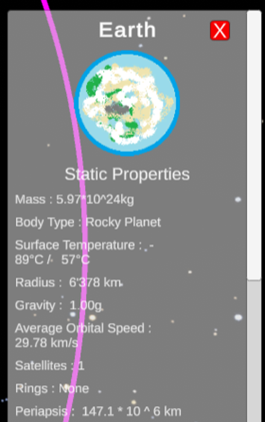
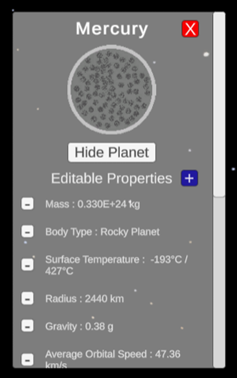
Update UI Components for clarity and formatting improvements

diff --git a/src/app/tutorial/components/CoreComponents/planetinformation.tsx b/src/app/tutorial/components/CoreComponents/planetinformation.tsx
@@ -10,17 +10,14 @@ const CGPlanetInformation: React.FC = () => {
         Explorer Mode:
       </p>
 
-      <img src="/planetinformation1.png" alt="Next.js Logo" className="mb-4" />
-      <img src="/planetinformation2.png" alt="Next.js Logo" className="mb-4" />
+      <img src="/Planetinormation12.png" alt="Next.js Logo" className="mb-4" />
 
       <h3 className="text-lg font-semibold mt-4 mb-2">Properties Displayed:</h3>
 
       <p className="mb-2">
-        The application currently has twelve “Static Properties” (properties that would not be
-        changing in a real-life-like case) and two “Variable Properties” (properties that would
-        change depending on the time of measurement).
+      The explorer mode categorizes the properties into two main types:
       </p>
-      <p className="mb-2 mt-4">The Static Properties are:</p>
+      <p className="mb-2 mt-4">Editable Properties (properties that don’t have an impact on the simulation, aka for information only):</p>
       <ul className="list-disc pl-6">
         <li>Mass: The mass of the body in kg </li>
         <li>
@@ -53,7 +50,7 @@ const CGPlanetInformation: React.FC = () => {
           terrestrial days{' '}
         </li>
       </ul>
-      <p className="mb-2 mt-4">The two “Variable Properties” are:</p>
+      <p className="mb-2 mt-4"> Live Stats (properties that change over time)</p>
       <ul className="list-disc pl-6">
         <li>Current Speed: The current velocity of the object in the simulation. </li>
         <li>
@@ -63,24 +60,42 @@ const CGPlanetInformation: React.FC = () => {
 
       <p className="mb-2 mt-4">
         The Info Tab also includes a description field, which contains interesting facts or
-        curiosities about the object.
-      </p>
-
-      <h3 className="text-lg font-semibold mt-4 mb-2">Interactive Features in Sandbox Mode:</h3>
-
-      <p className="mb-2">
-        In the Sandbox Mode the info tab is slightly different: the user is allowed to modify the
-        “Static Properties”, as well as the planets description. It can also add new “Static
-        Properties” or remove old ones.
+        curiosities about the object. The interactive features in the Explorer mode are the
+        following:
       </p>
       <ul className="list-disc pl-6">
-        <li>Add New Property: Press the blue <span className=" bg-white text-slate-900 p-0.5 px-1.5 rounded-md shadow-lg font-bold ">+ button</span>  to introduce a new static property.</li>
-        <li>Remove Property: Click the <span className=" bg-white text-slate-900 p-0.5 px-1.5 rounded-md shadow-lg font-bold ">- button</span>  next to a property to remove it.</li>
+        <li>
+          • Add New Property: Press the blue{' '}
+          <span className=" bg-white text-slate-900 p-0.5 px-1.5 rounded-md shadow-lg font-bold ">
+            + button
+          </span>{' '}
+          to introduce a new editable property.{' '}
+        </li>
+        <li>
+          Remove Property: Click the{' '}
+          <span className=" bg-white text-slate-900 p-0.5 px-1.5 rounded-md shadow-lg font-bold ">
+            - button
+          </span>{' '}
+          next to a property to remove it.{' '}
+        </li>
         <li>
           Edit Property or Description: Double-click on any text to edit the property value or the
           description itself.
         </li>
       </ul>
+      <p className="mb-2 mt-4">
+        The eventual changes in properties and descriptions are partially saved: the values are
+        reset to default as soon as the user goes back to the main menu or closes the program. Until
+        then, all changes will be saved in the respective info tabs, even if the user switches
+        between planets.
+      </p>
+
+      <h3 className="text-lg font-semibold mt-4 mb-2">Interactive Features in Sandbox Mode:</h3>
+
+      <p className="mb-2">
+        In the Sandbox Mode the info tab is slightly different: there is a new category of
+        properties, the Variable ones, which, when changed, will impact the simulation.
+      </p>
       <p className="mb-2">
         The following screenshot depicts an example of Info Tab in the Sandbox mode with the
         relevant buttons.{' '}
@@ -91,8 +106,11 @@ const CGPlanetInformation: React.FC = () => {
       <div className="mb-4">
         <h3 className="text-lg font-semibold mb-2">Closing / Switching the Info Tab </h3>
         <p className="mb-2">
-          Close the Info Tab: You can click the red <span className=" bg-white text-slate-900 p-0.5 px-1.5 rounded-md shadow-lg font-bold ">X button</span>  in the top right corner or click on
-          the same planet in the planet list again.
+          Close the Info Tab: You can click the red{' '}
+          <span className=" bg-white text-slate-900 p-0.5 px-1.5 rounded-md shadow-lg font-bold ">
+            X button
+          </span>{' '}
+          in the top right corner or click on the same planet in the planet list again.
         </p>
         <p className="mb-2">
           Switch between Tabs: Clicking on a different planet in the list will close the current tab

diff --git a/src/app/tutorial/components/CoreComponents/uicomponents.tsx b/src/app/tutorial/components/CoreComponents/uicomponents.tsx
@@ -5,35 +5,27 @@ const CGUIComponents: React.FC = () => {
 
       <div className=" rounded-lg p-6  mb-6">
         <p className="mb-4">
-          The following image depicts the starting state of the simulation. The program has four
-          interactable elements:{' '}
-          <span className=" bg-white text-slate-900 p-0.5 px-1.5 rounded-md shadow-lg font-bold ">
-            Speed Slider
-          </span>{' '}
-          ,{' '}
-          <span className=" bg-white text-slate-900 p-0.5 px-1.5 rounded-md shadow-lg font-bold ">
-            Play/Pause button
-          </span>{' '}
-          ,{' '}
-          <span className=" bg-white text-slate-900 p-0.5 px-1.5 rounded-md shadow-lg font-bold ">
-            Escape button
-          </span>{' '}
-          , as well as a third button on the lower part of the screen with an{' '}
-          <span className=" bg-white text-slate-900 p-0.5 px-1.5 rounded-md shadow-lg font-bold ">
-            Arrow
-          </span>{' '}
-          pointing upwards.{' '}
+          The following image depicts the starting state of the explorer mode. The UI has seven
+          interactable elements:
         </p>
+        <ul className="list-disc pl-6 mb-6">
+          <li className="mb-2">Real time toggle</li>
+          <li className="mb-2">Sumulation speed slider</li>
+          <li className="mb-2">Play / Pause button</li>
+          <li className="mb-2">Backwards button ( {"<<"} )</li>
+          <li className="mb-2">Forward button ( {">>"} )</li>
+          <li className="mb-2">Escape button</li>
+          <li className="mb-2">Planet list button, as an up-pointing arrow</li>
+        </ul>
+
         <img src="/bild1.png" alt="Next.js Logo" className="mb-4" />
         <ul className="list-disc pl-6 mb-6">
           <li className="mb-2">
-            Simulation speed slider: You can use the{' '}
-            <span className=" bg-white text-slate-900 p-0.5 px-1.5 rounded-md shadow-lg font-bold ">
-              Speed Slider
-            </span>{' '}
-            to increase the time steps, which allows you to see planetary movements that would
-            normally take years in just seconds. – More details about the simulation speed will
-            follow in the “Time Controls” chapter –
+            Real time toggle: Activate the real time mode by pressing this <span className=" bg-white text-slate-900 p-0.5 px-1.5 rounded-md shadow-lg font-bold ">
+              Checkmark
+            </span>{' '}. This will run
+            the simulation in real time, which means, it will take earth 24 hours of running your
+            computer with the application opened to do one full rotation around itself
           </li>
           <li className="mb-2">
             Play / Pause button: Clicking the{' '}
@@ -44,10 +36,16 @@ const CGUIComponents: React.FC = () => {
             planetary positions closely.
           </li>
           <li className="mb-2">
-            Forward button: The celestial body will move normally, and you can explore the future.
+            Forward button: Clicking the{' '}
+            <span className=" bg-white text-slate-900 p-0.5 px-1.5 rounded-md shadow-lg font-bold ">
+              Forward button
+            </span>{' '}  will move the simulation normally, allowing you to explore the future.
           </li>
           <li className="mb-2">
-            Backward button: The celestial body will move in reverse, and you can explore the past.
+            Backward button: Clicking the{' '}
+            <span className=" bg-white text-slate-900 p-0.5 px-1.5 rounded-md shadow-lg font-bold ">
+              Backward button
+            </span>{' '} will move the simulation back in time, essentially letting you rewind the solar system.
           </li>
           <li className="mb-2">
             Arrow button: Click the{' '}
@@ -62,8 +60,7 @@ const CGUIComponents: React.FC = () => {
             <span className=" bg-white text-slate-900 p-0.5 px-1.5 rounded-md shadow-lg font-bold ">
               Escape button
             </span>{' '}
-            stops the simulation and takes you back to the main menu, where you can quit the program
-            or start a new simulation.
+            stops the simulation and takes you back to the main menu, where you can quit the program or start a new simulation mode
           </li>
         </ul>
 

diff --git a/src/app/tutorial/components/CoreComponents/timecontrol.tsx b/src/app/tutorial/components/CoreComponents/timecontrol.tsx
@@ -8,16 +8,46 @@ const CGTimeControl: React.FC = () => {
         <span className=" bg-white text-slate-900 p-0.5 px-1.5 rounded-md shadow-lg font-bold ">
           Play/Pause button
         </span>{' '}
-        that allows you to stop or start the simulation. Positioned at the top left, there is a
-        slider that enables you to control the speed of the simulation. The slider scale ranges from
-        1 to 20, with the selected number displayed above it. In Explorer Mode, below the slider,
-        you can also see the current date of the simulation. Each increment on the{' '}
+        that allows you to stop or start the simulation. Positioned at the top left, there is a{' '}
         <span className=" bg-white text-slate-900 p-0.5 px-1.5 rounded-md shadow-lg font-bold ">
-          Slider
+          Simulationspeed Slider
         </span>{' '}
-        corresponds to one day per second in terms of planet movement speed.
+        that enables you to control the speed of the simulation.
       </p>
+      <p className="mb-4">
+        The selected speed will be displayed next to it. In Explorer Mode, top left, you can also
+        see the current date of the simulation. You can click on the date and a window will pop up.
+        There you can choose a date and time. You can click on {' '}
+        <span className=" bg-white text-slate-900 p-0.5 px-1.5 rounded-md shadow-lg font-bold ">
+          Submit
+        </span>{' '}
+        and the simulation will move to this time. Additionally, you have two buttons {' '}
+        <span className=" bg-white text-slate-900 p-0.5 px-1.5 rounded-md shadow-lg font-bold ">
+          {'<<'}
+        </span>{' '}
+        and{' '}
+        <span className=" bg-white text-slate-900 p-0.5 px-1.5 rounded-md shadow-lg font-bold ">
+          {'>>'}
+        </span>{' '}
+      </p>
+      <p className="mb-4">
+        <span className=" bg-white text-slate-900 p-0.5 px-1.5 rounded-md shadow-lg font-bold ">
+          {'<<'}
+        </span>{' '}
+        will go back to the time and you will take a journey to the past while{' '}
+        <span className=" bg-white text-slate-900 p-0.5 px-1.5 rounded-md shadow-lg font-bold ">
+          {'>>'}
+        </span>{' '}
+        will show you the future! Finally, you have a {' '}
+        <span className=" bg-white text-slate-900 p-0.5 px-1.5 rounded-md shadow-lg font-bold ">
+           Real Time Checkmark
+        </span>{' '}
+        Here the simulation will ignore the simulation slider and the speed will be adjusted to the
+        real lifetime.
+      </p>
+
       <img src="/timecontrol1.png" alt="Next.js Logo" className="mb-4" />
+      <img src="/timecontrol2.png" alt="Next.js Logo" className="mb-4" />
     </div>
   );
 };

diff --git a/src/app/tutorial/components/CoreComponents/camerapresets.tsx b/src/app/tutorial/components/CoreComponents/camerapresets.tsx
@@ -9,28 +9,39 @@ const CGCameraPresets: React.FC = () => {
       </p>
 
       <div className="mb-4">
-        <h3 className="text-lg font-semibold mb-2">Birds Eye View (Numpad 1)</h3>
+        <h3 className="text-lg font-semibold mb-2">Birds Eye View </h3>
         <p className="mb-2">
           Press the{' '}
           <span className=" bg-white text-slate-900 p-0.5 px-1.5 rounded-md shadow-lg font-bold ">
             1 key
           </span>{' '}
-          on the numpad to switch to a birds eye view. This perspective provides a top-down view
+          to switch to a birds eye view. This perspective provides a top-down view
           centered around the current pivot point, ideal for getting a comprehensive overview of the
           solar system.{' '}
         </p>
       </div>
 
       <div className="mb-4">
-        <h3 className="text-lg font-semibold mb-2">Side View (Numpad 3)</h3>
+        <h3 className="text-lg font-semibold mb-2">Side View </h3>
         <p className="mb-2">
           {' '}
           Press the{' '}
           <span className=" bg-white text-slate-900 p-0.5 px-1.5 rounded-md shadow-lg font-bold ">
             3 key
           </span>{' '}
-          on the numpad to switch to a side view. This perspective offers a lateral view of the
+          to switch to a side view. This perspective offers a lateral view of the
           current pivot point, useful for examining the spatial relationships between planets.{' '}
+        </p>
+      </div>
+      <div className="mb-4">
+        <h3 className="text-lg font-semibold mb-2">•	Diagonal View</h3>
+        <p className="mb-2">
+          {' '}
+          Press the{' '}
+          <span className=" bg-white text-slate-900 p-0.5 px-1.5 rounded-md shadow-lg font-bold ">
+            7 key
+          </span>{' '}
+          to switch to a diagonal view. This perspective provides a mix of a side view, looking slightly down at the sun.
         </p>
       </div>
     </div>

diff --git a/src/app/tutorial/components/CoreComponents/addnewplanet.tsx b/src/app/tutorial/components/CoreComponents/addnewplanet.tsx
@@ -1,4 +1,4 @@
-const CGPlanetInformation: React.FC = () => {
+const CGAddNewPlanets: React.FC = () => {
   return (
     <div className="max-w-xl mx-auto my-8 p-4">
       <h2 className="text-xl font-semibold mb-2">Adding New Celestial Bodies</h2>
@@ -29,8 +29,23 @@ const CGPlanetInformation: React.FC = () => {
         </li>
         <li>Color: A new window opens where you can choose the color of your celestial body. </li>
       </ul>
+      <img src="/addnewbody.png" alt="addnewplanet" />
+      <p className="mb-4">
+        In All fields must be filled out with valid values. If any fields are invalid, the
+        corresponding field will be highlighted in red.{' '}
+      </p>
+      <p className="mb-4">
+      Once all fields are correctly filled out, you can click the{' '}
+        <span className=" bg-white text-slate-900 p-0.5 px-1.5 rounded-md shadow-lg font-bold ">
+        Create button 
+        </span>{' '}
+        You will see it in the simulation and observe its gravitational impact on the other celestial bodies. There will also be a new entry for your celestial body in the list below, along with an info tab that appears when you click the entry. Visit the (Planet Information “link zum Abschnitt”) section to learn how to use the info tab.
+      </p>
+      <p className="mb-4">
+      Keep in mind: Depending on the status of the other celestial bodies in the simulation, various occurrences may happen. For example, if the new celestial body has a large enough mass, it might pull all other celestial bodies towards it. Alternatively, if the new celestial body has a high initial velocity, it might not be significantly affected by the gravitational forces of the other celestial bodies. It all depends on your inputs.
+      </p>
     </div>
   );
 };
 
-export default CGPlanetInformation;
+export default CGAddNewPlanets;

diff --git a/src/app/tutorial/components/GettingStarted/mainmenu.tsx b/src/app/tutorial/components/GettingStarted/mainmenu.tsx
@@ -27,7 +27,7 @@ const GSmainmenu: React.FC = () => {
           <span className=" bg-white text-slate-900 p-0.5 px-1.5 rounded-md shadow-lg font-bold ">
             Settings
           </span>{' '}
-          brings up a window where you can graphics settings or switch to fullscreen.
+          brings up a window where you can adjust graphics settings.
         </li>
         <li className="mb-2">
           Quit: Click on{' '}
